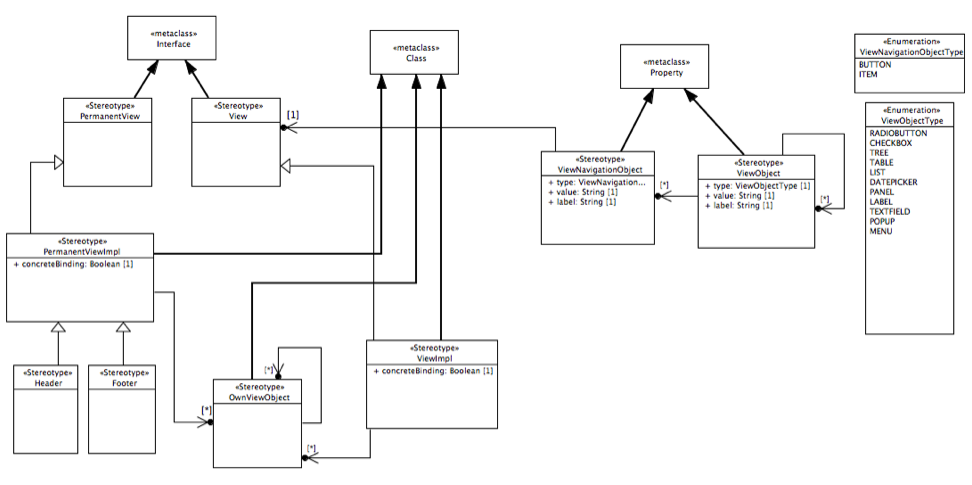
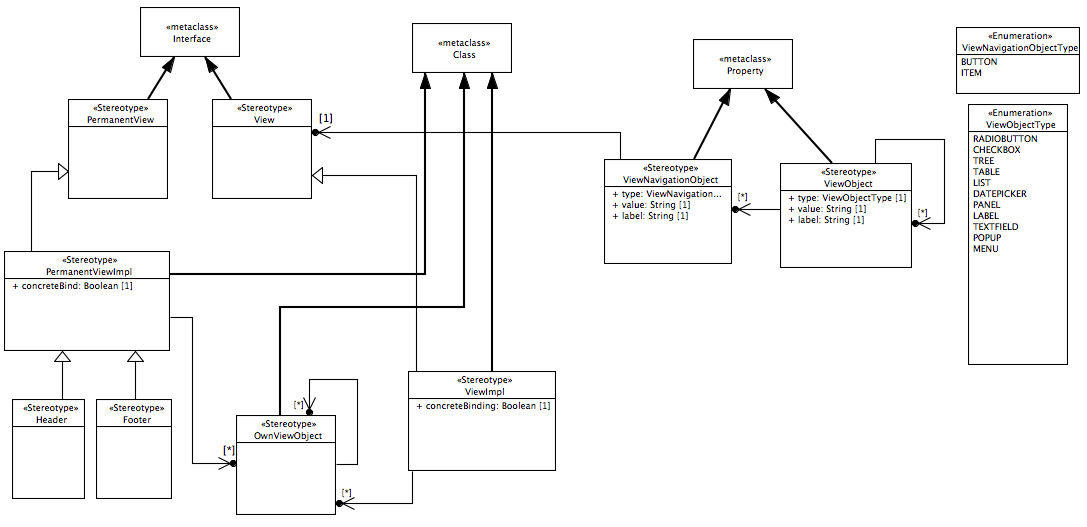
besseres Profil

diff --git a/LaTeX/Source/Chapters/Anhang.tex b/LaTeX/Source/Chapters/Anhang.tex
@@ -15,7 +15,7 @@
 
 \begin{figure}[ht]
 \begin{center}
-\includegraphics[width=0.8\textheight, angle=90]{./img/Profil.png}
+\includegraphics[width=\textheight, angle=90]{./img/Profil.png}
 \caption{Darstellung des gesamten UML Profil}
 \end{center}
 \end{figure}
